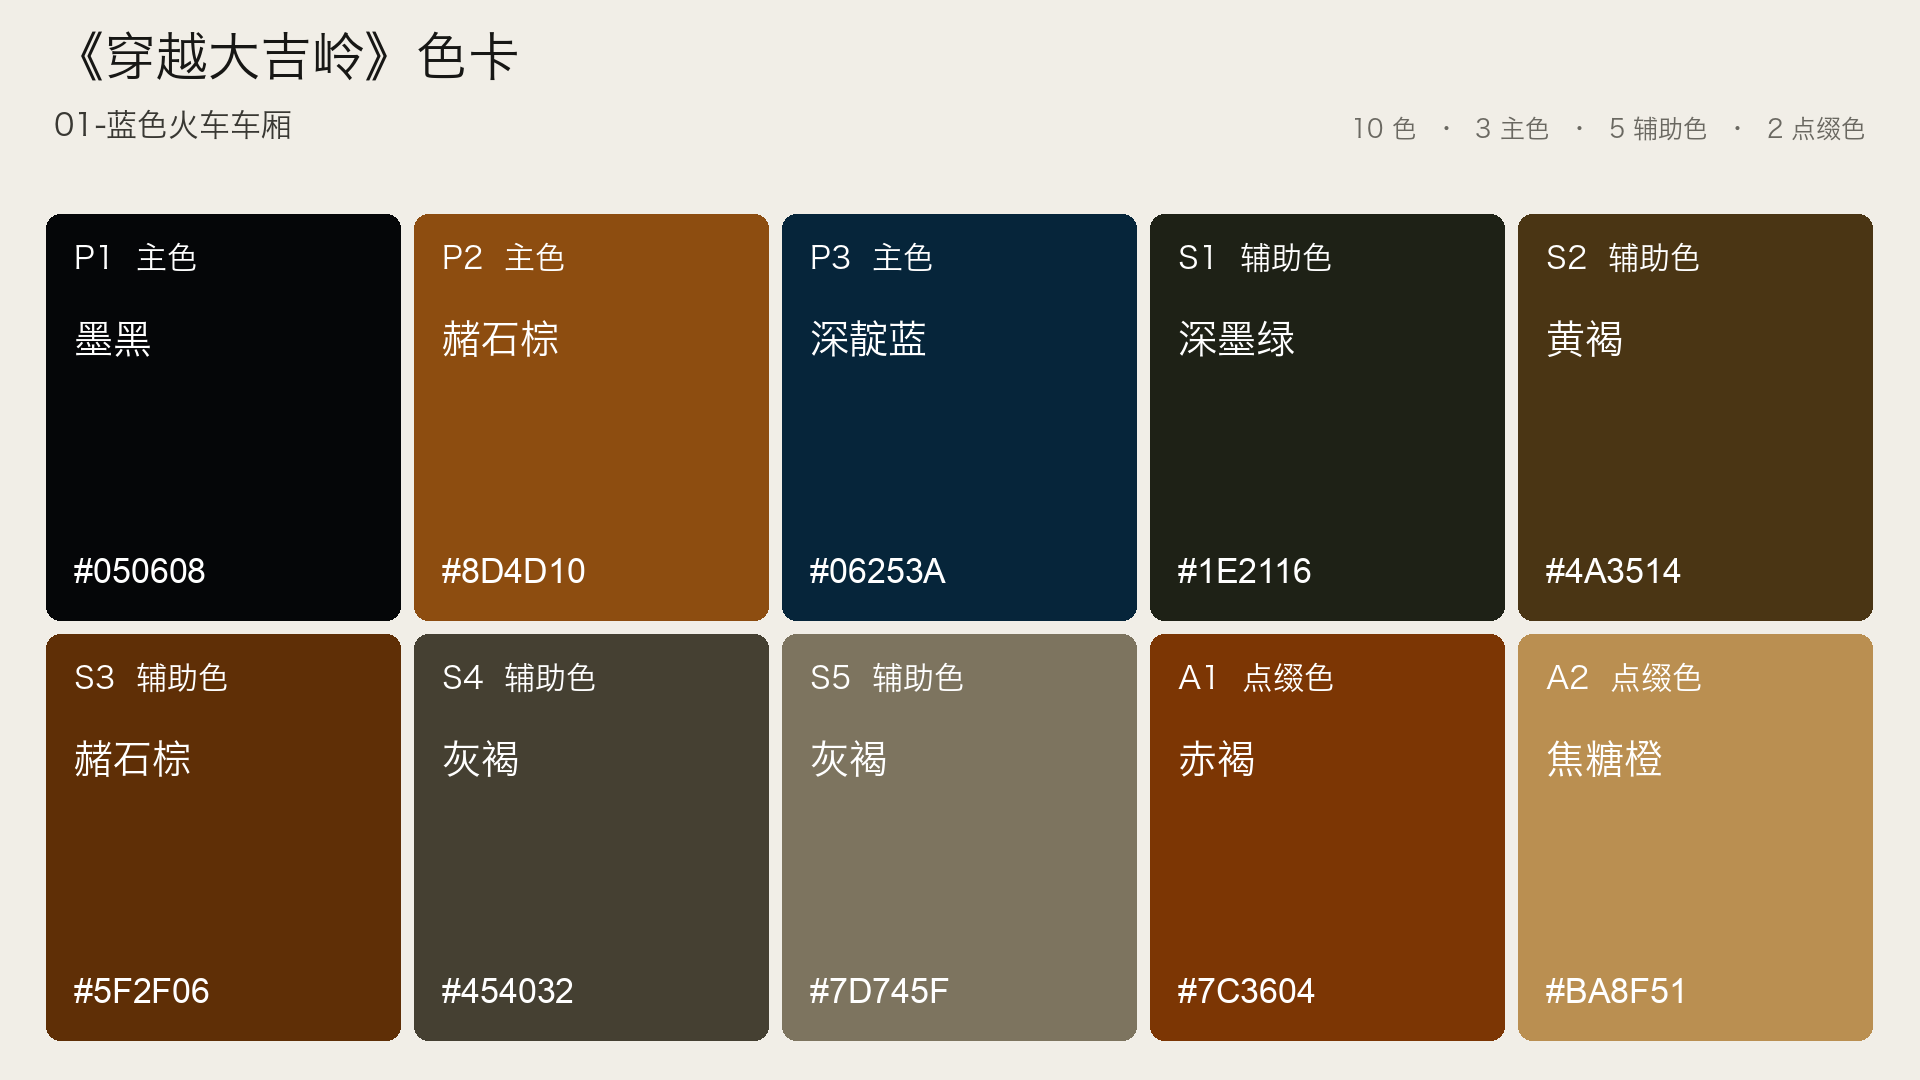
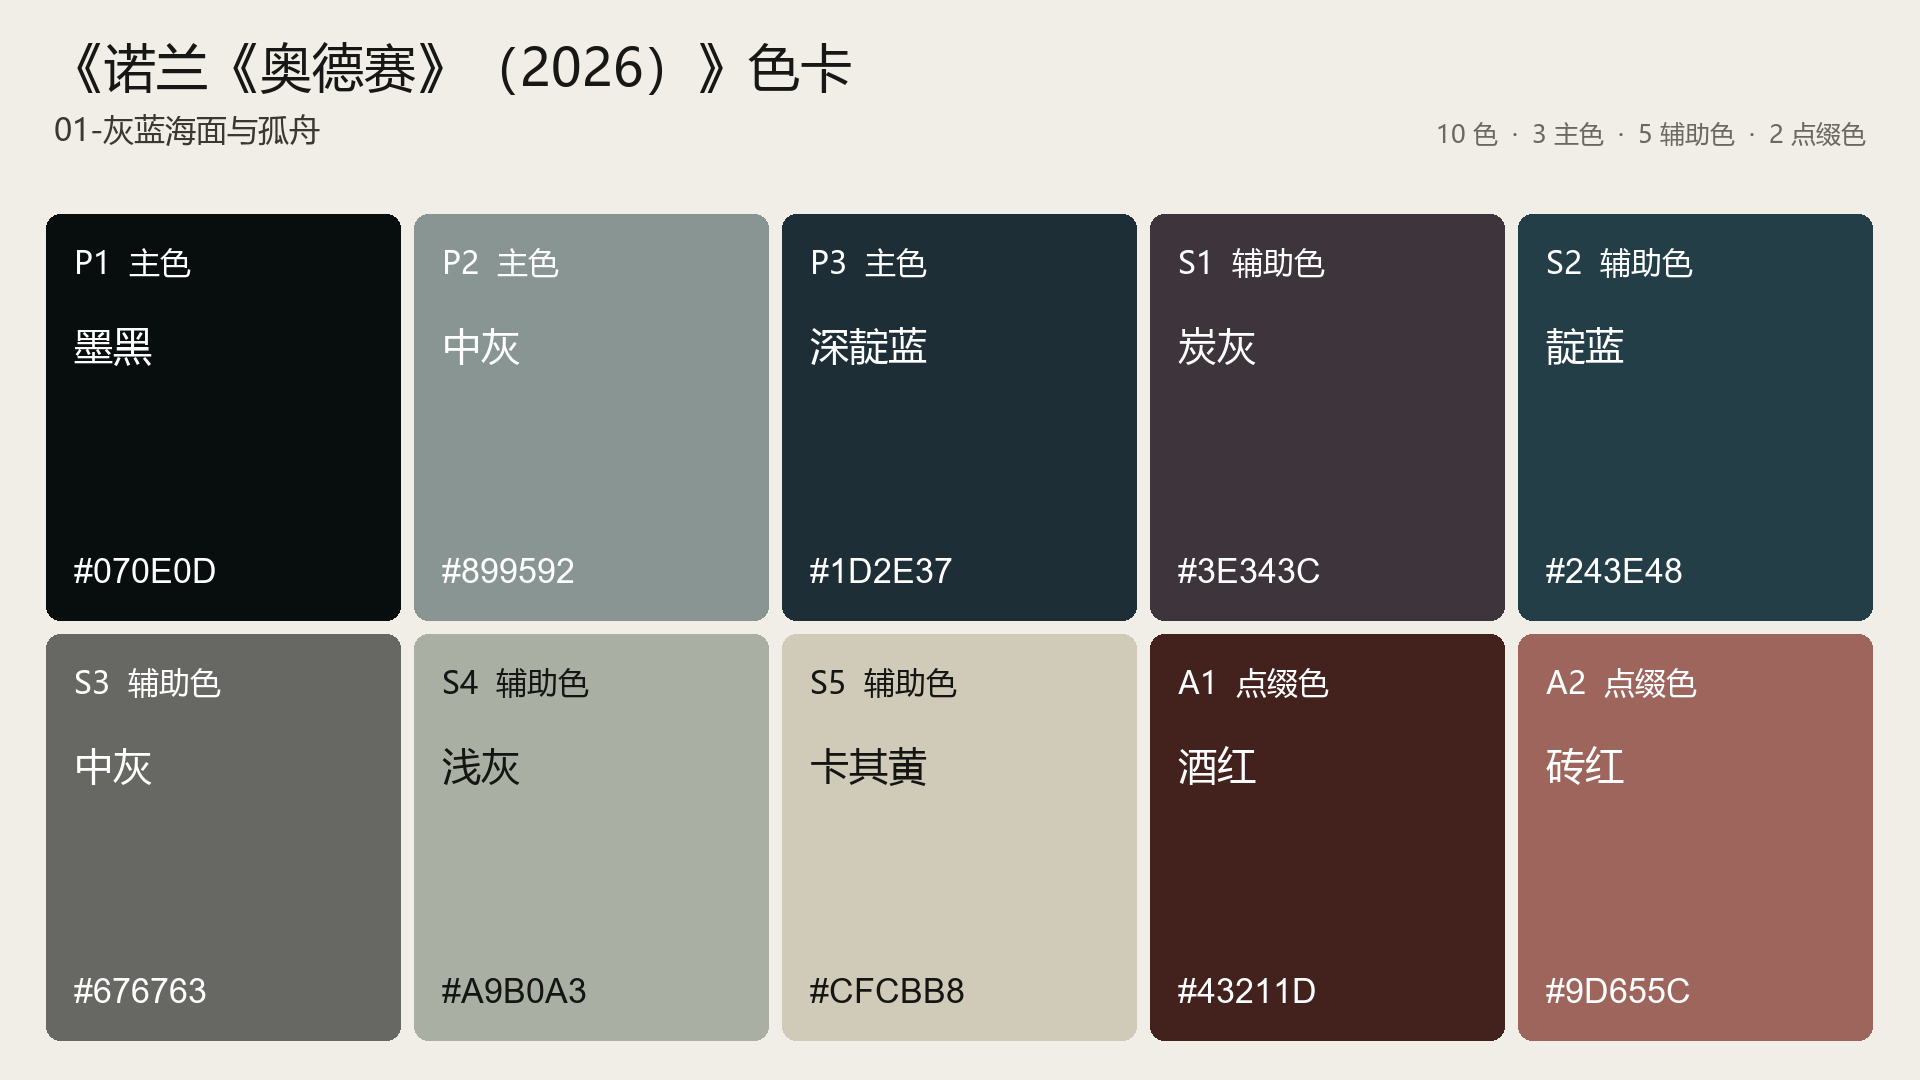
Update Odyssey examples

diff --git a/README.md b/README.md
@@ -17,6 +17,14 @@
 - 生成可迁移的风格规则与图片/视频提示词
 - 独立校验目录、来源、逐图标签、色卡、文档颜色和隐私信息
 
+## 效果示例
+
+下面是从诺兰《奥德赛》（2026）公开预告片抽帧后生成的视觉分组色卡总览。画面按视觉风格归类，每组同时保留代表帧、主色与辅助色。
+
+![诺兰《奥德赛》（2026）风格包分组色卡总览](assets/odyssey-style-pack-preview.jpg)
+
+> 仅作 Skill 输出示例；源影像版权归原权利人所有。
+
 ## 快速使用
 
 安装 Skill 并完成下方环境配置后，直接向 Agent 描述目标即可，通常不需要手动运行脚本。
